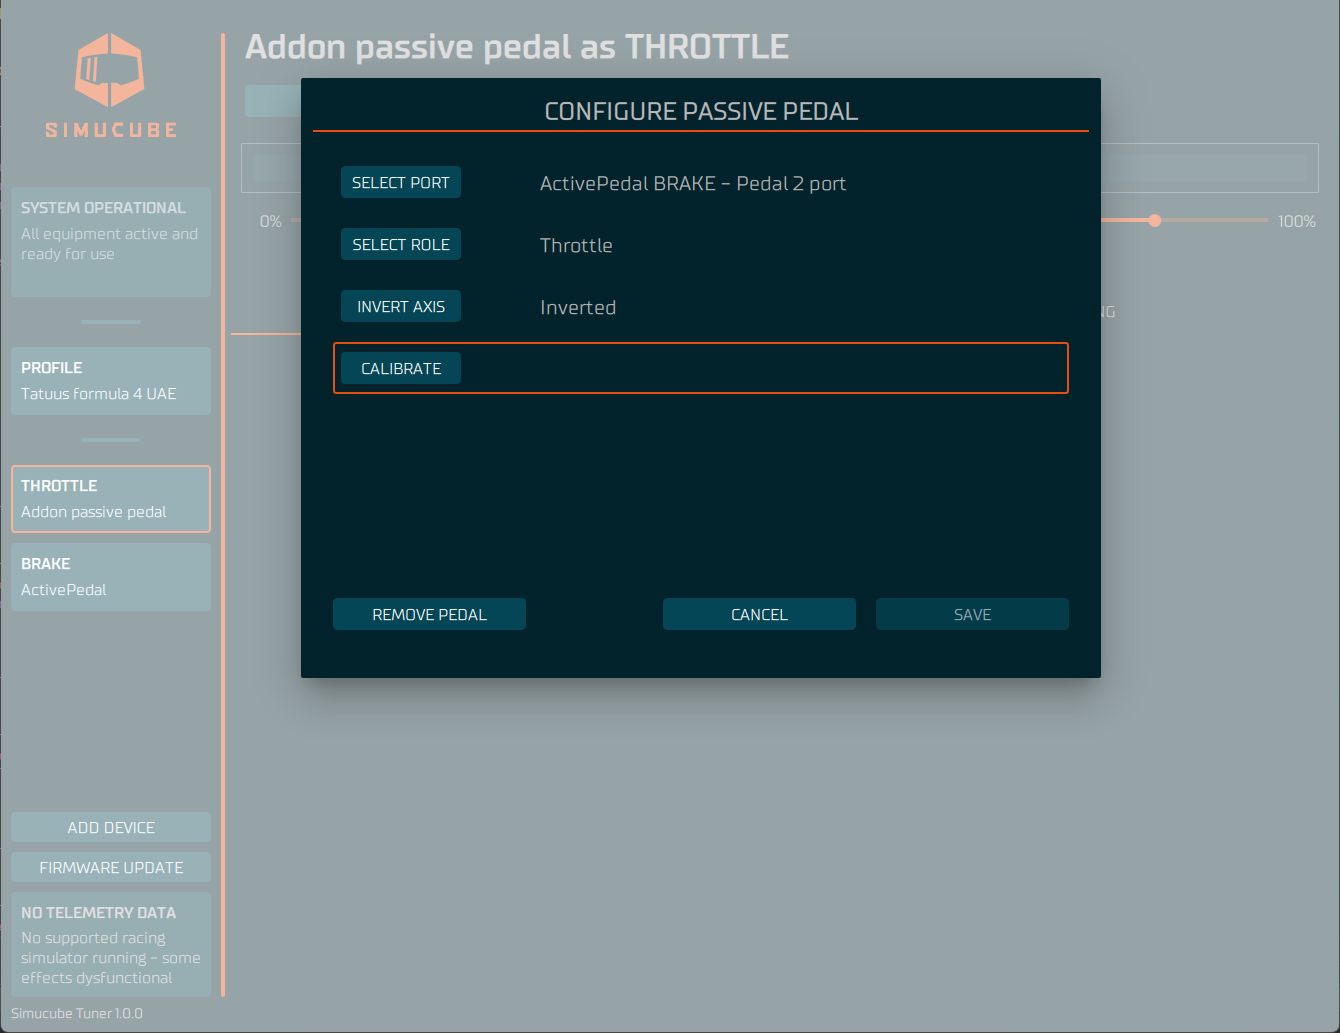
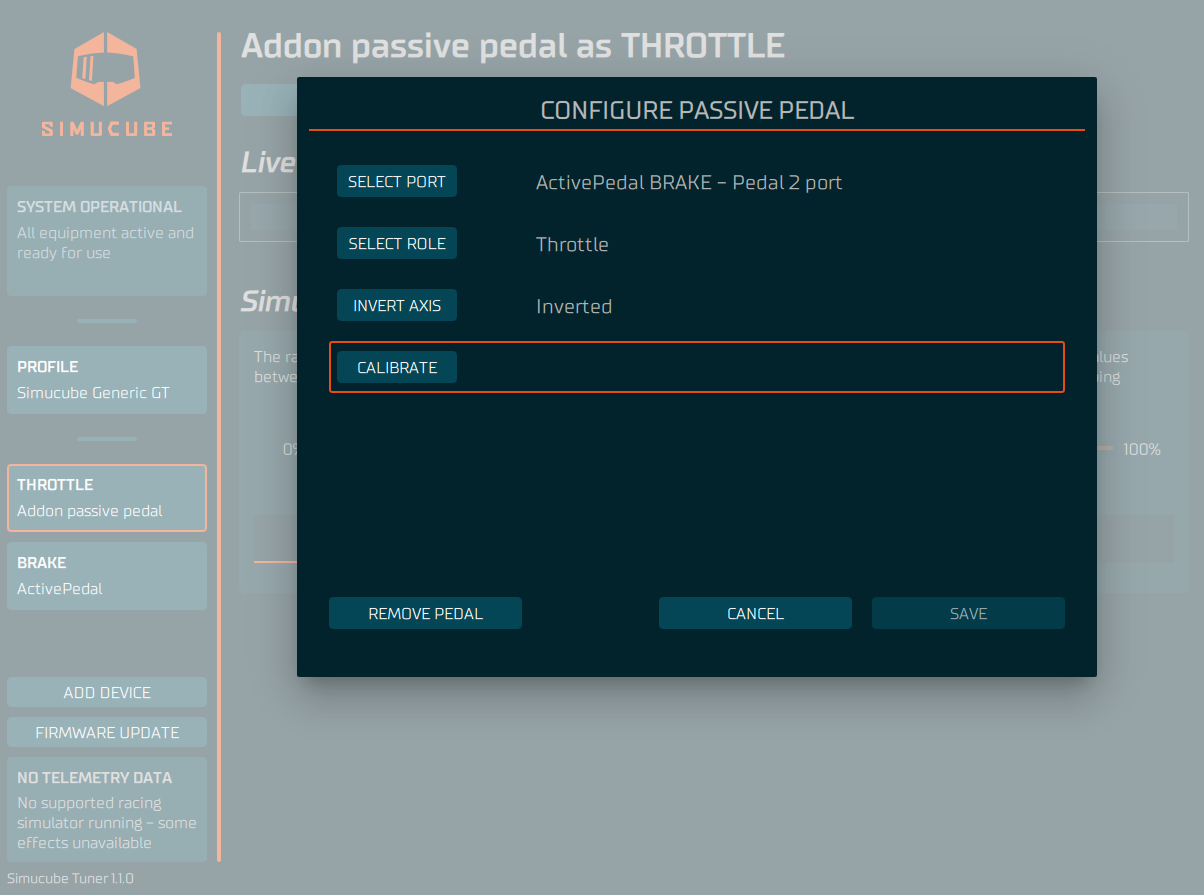
update passive pedal page + screenshots

Changed region(s): [[0.0, 0.0302, 1.0, 1.0], [0.9834, 0.2413, 1.0, 0.2715], [0.9527, 0.2112, 0.9834, 0.2413]]

diff --git a/docs/ActivePedal/Software/Passive pedal setup.md b/docs/ActivePedal/Software/Passive pedal setup.md
@@ -7,16 +7,18 @@ Passive pedals can be used with an ActivePedal. To use external pedals connected
 
 To add passive pedal, press Add device -button found on bottom left corner of the Tuner and select "Passive pedal". Now a new device is seen on a device panel. The device has not been configured and therefore it shows yellow circle (not configured). Press the passive pedal on the device panel.
 
-## Initial configuration / calibration
+## Initial configuration and calibration
 
 On a passive pedal configure view select to which port the passive pedal is connected (1 or 2) and select pedal role: brake, throttle or clutch. 
 
 To calibrate the passive pedal, press the calibrate button. Then fully press the passive pedal and release it a few times. This way the range of the pedal is recorded. After this is done, press ok. Invert axis if needed.
 
-## Passive pedal main view / Mapping / Dead zones
+## Passive pedal input mapping and dead zones
 
-From the main passive pedal view, the input range slider is used to setup dead zones for your pedal. This means when the 0% and 100% is sent to the game.
+From the main passive pedal view, the input range slider is used to setup dead zones for your pedal. The range slider defines the pedal raw value range that will be mapped as full 0-100% range sent to the game.
+
+![](assets/passive pedal linear mapping.png)
 
 The force data can be sent to the simulator directly by using linear mapping or it is also possible to customize how the force data is sent to the simulator by selecting "curve mapping". The custom mapping setup is done by dragging nodes on curve mapping graph.
 
-![](assets/passivepedalsettings.png)
+![](assets/passive pedal curve mapping.png)

diff --git a/assets/abbreviations.md b/assets/abbreviations.md
@@ -7,3 +7,5 @@
 *[damping]: A physical property of mechanical structure that helps vibration, or "singing", to attenuate/fade out naturally. Examples of high damping materials are cast iron, wood, concrete and alike, while low damping is exhibited in "springy" materials such as steel. However springy materials can also make well damped system when made rigid enough and/or with addition of some damping materials in their structure.
 *[oscillation]: A physical vibration phenomenon that may occur in dynamically controlled systems. Frequency of vibration may vary from low frequency shaking motion to high pitched audible tone. Using well damped mechanical structures and/or using software vibration reduction features are typical ways to mitigate oscillation.
 *[passive pedal]: A sim racing pedal type that is based on non-powered components, such as hydraulics, elastomers or springs, to produce the pedal force.
+*[dead zone]: A calibration feature that trims raw input signal so that in the resting position the game input stays 0% and and in maximum input game sees 100% input.
+*[dead zones]: A calibration feature that trims raw input signal so that in the resting position the game input stays 0% and and in maximum input game sees 100% input.
